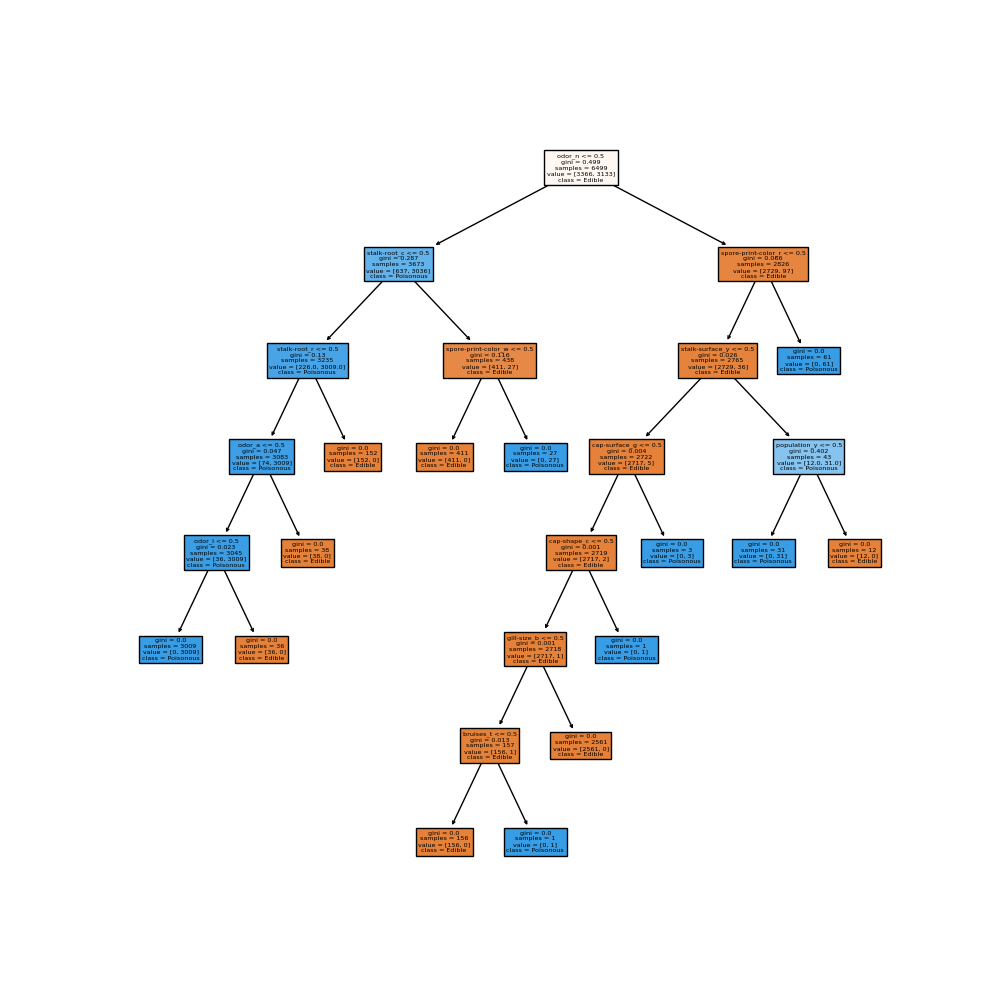
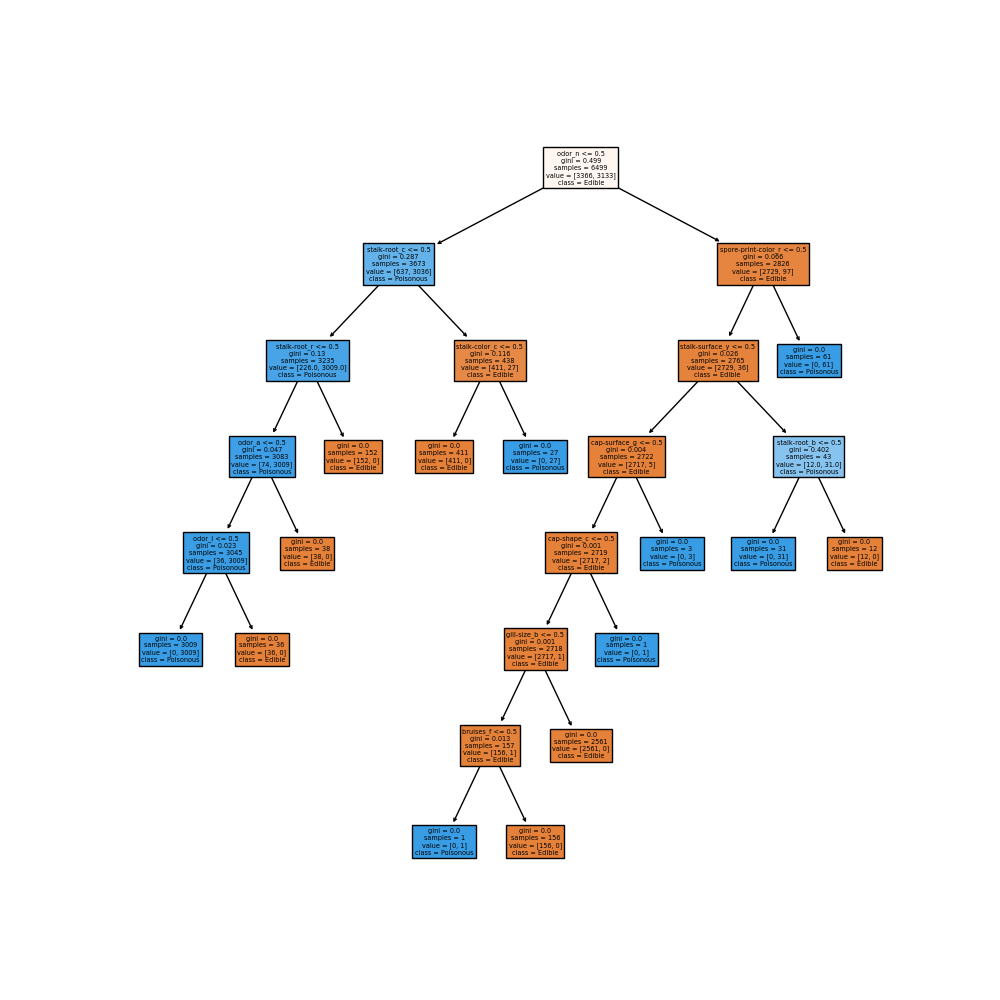
Fix: Fixed image generation and added results csv

diff --git a/pipeline.py b/pipeline.py
@@ -140,7 +140,7 @@ def train_models(models, encoded_dataset, y_train):
 #         models[key].fit(X_train, y_train)
 
 
-def test_models(models, encoded_dataset, y_test):
+def test_models(models, encoded_dataset, y_test, filename):
     # Prepariamo le liste per le metriche
     accuracy_list, precision_list, recall_list, f1_list, auc_list = [], [], [], [], []
     X_test = encoded_dataset.to_numpy()
@@ -163,14 +163,14 @@ def test_models(models, encoded_dataset, y_test):
         plt.xlabel("False Positive Rate")
         plt.ylabel("True Positive Rate")
         plt.title("ROC curve " + key)
-        plt.savefig(key + "_roc_curve.png")
+        plt.savefig("images/" + key + "_roc_curve.png")
         plt.show()
         plt.close("all")
 
         matrix = confusion_matrix(y_true=y_test, y_pred=y_pred)
         sns.heatmap(matrix, annot=True, cmap="Blues", fmt="d")
         plt.title("Confusion Matrix " + key)
-        plt.savefig(key + "_confusion_matrix.png")
+        plt.savefig("images/" + key + "_confusion_matrix.png")
         plt.show()
         plt.close("all")
 
@@ -183,6 +183,8 @@ def test_models(models, encoded_dataset, y_test):
     # Visualizziamo le performance sotto forma di tabella
     scores = pd.DataFrame({"Accuracy": accuracy_list, "Precision": precision_list, "Recall": recall_list, "F1": f1_list, "AUC": auc_list}, index=models.keys())
     print(scores)
+
+    scores.to_csv(filename + ".csv")
 
 
 def naive_bayes_fine_tuning(X, y):
@@ -324,7 +326,7 @@ if __name__ == "__main__":
     train_models(models, encoded_dataset_train, y_train)
 
     # Andiamo a testare i modelli
-    test_models(models, encoded_dataset_test, y_test)
+    test_models(models, encoded_dataset_test, y_test, "initial_models_scores")
 
     # I modelli con le performance migliori sono Decision Tree e Naive Bayes, ma hanno comunque performance poco
     # desiderabili. Andiamo quindi a fare un fine tuning dei parametri utilizzando GridSearchCV
@@ -332,14 +334,13 @@ if __name__ == "__main__":
                     "Tuned_Decision_Tree": decision_tree_fine_tuning(encoded_dataset_train, y_train)}
 
     # Andiamo a testare i modelli con i parametri ottimizzati
-    test_models(tuned_models, encoded_dataset_test, y_test)
+    test_models(tuned_models, encoded_dataset_test, y_test, "tuned_models_scores")
 
-    # TODO ricontrollare ed eventualmente rimuovere
-    # Curiosamente il Decision Tree non ha migliorato le sue performance, mentre Naive Bayes ha avuto un miglioramento
-    # leggero. Nonostante questo però, Decision Tree ha una Recall sensibilmente migliore rispetto a Naive Bayes, e
-    # considerando che in questo caso è più importante avere una bassa percentuale di falsi negativi, Decision Tree
-    # risulta essere il modello migliore. Inoltre Decision Tree ha una explainability maggiore rispetto a Naive Bayes,
-    # rendendolo il modello migliore per questo caso specifico.
+    # Curiosamente Naive Bayes ha peggiorato le sue performance, mentre Decision Tree ha avuto un miglioramento
+    # leggero. In particolare la Recall di Decision Tree è sensibilmente migliore rispetto a Naive Bayes, e considerando
+    # che in questo caso è più importante avere una bassa percentuale di falsi negativi, Decision Tree risulta essere il
+    # modello migliore. Inoltre Decision Tree ha una explainability maggiore rispetto a Naive Bayes, rendendolo il
+    # modello migliore per questo caso specifico.
 
     # Andiamo a visualizzare il grafico dell'albero di decisione
     plot_tree_graph(tuned_models["Tuned_Decision_Tree"], encoded_dataset_train.columns)
